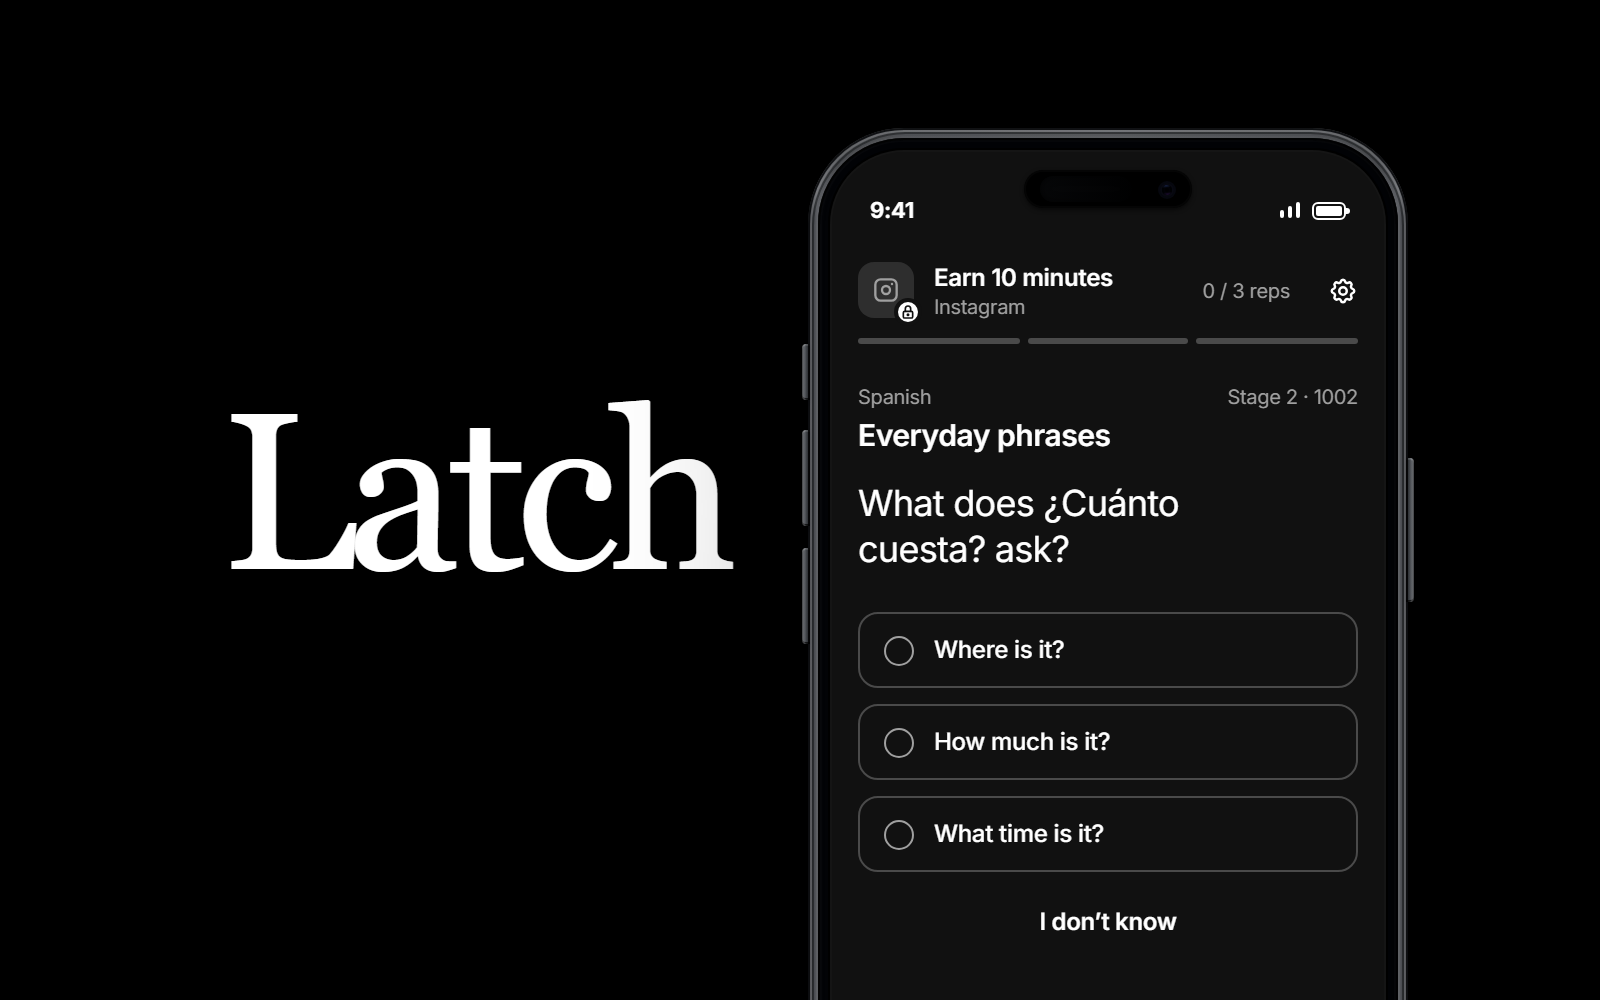
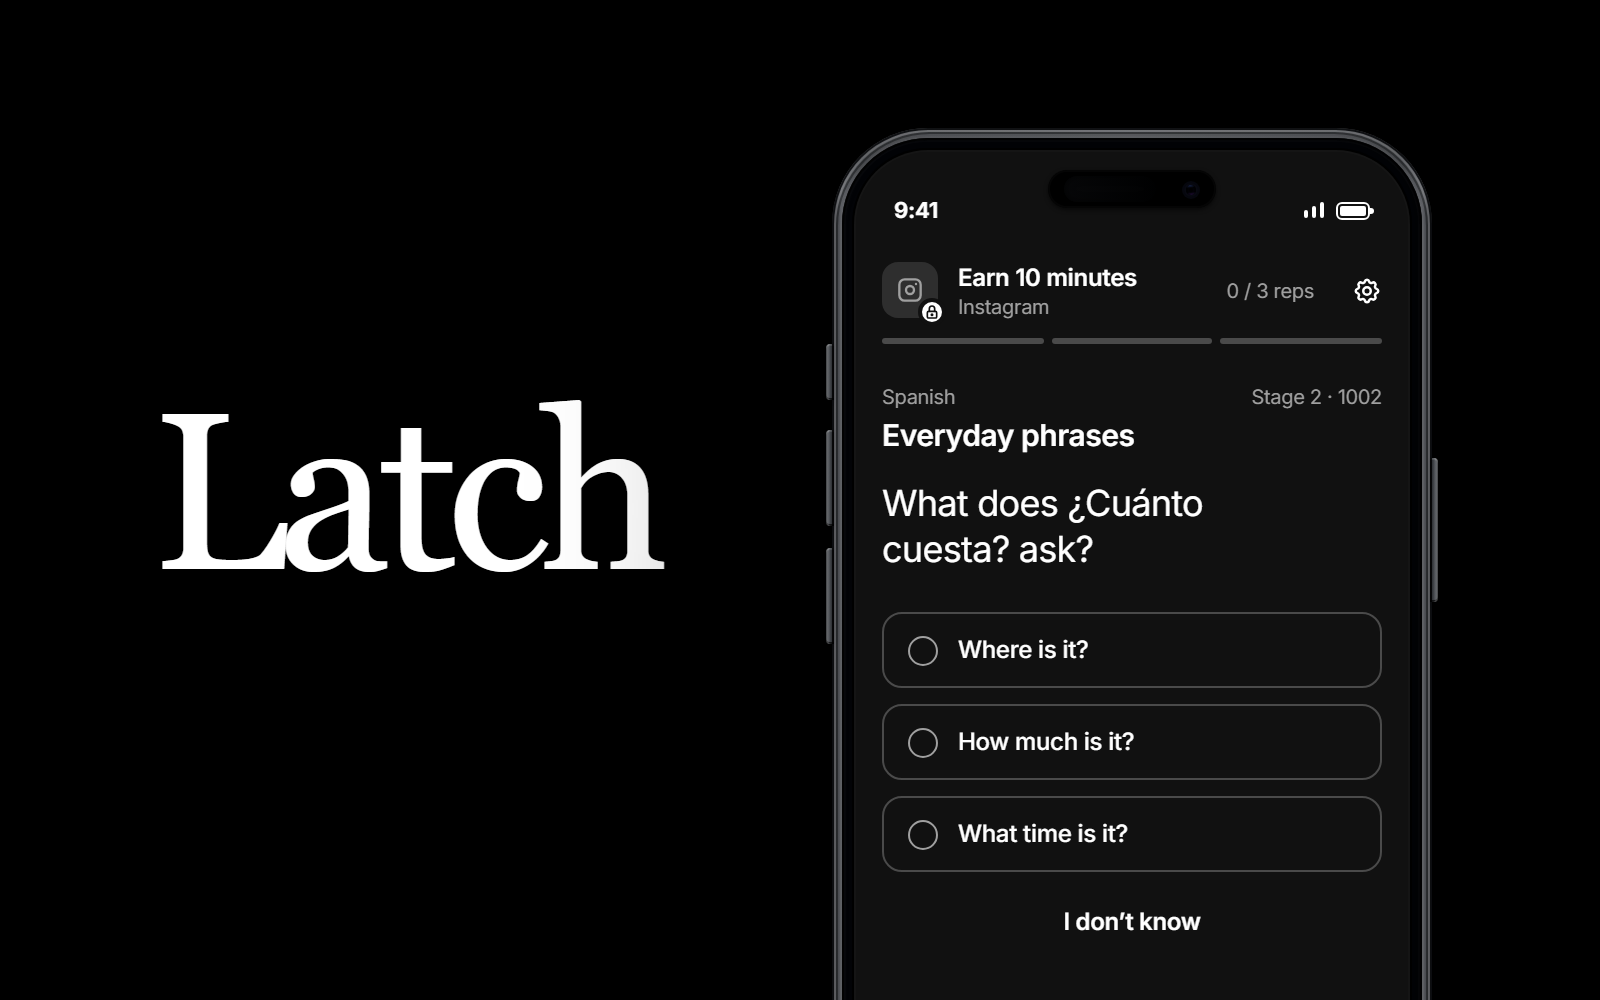
fix(portfolio): even out spacing in Latch cover image

diff --git a/portfolio.config.js b/portfolio.config.js
@@ -33,7 +33,7 @@ window.PORTFOLIO_CONFIG = {
       position: "center",
     },
     latch: {
-      src: "assets/latch.png",
+      src: "assets/latch.png?v=20261118-1",
       alt: "Latch unlock screen asking a Spanish question before Instagram opens",
       fit: "contain",
       // The phone is cropped at the image's bottom edge, so keep that edge on the frame's.

diff --git a/index.html b/index.html
@@ -324,7 +324,7 @@
               <img
                 class="shot"
                 data-project-image="latch"
-                src="assets/latch.png"
+                src="assets/latch.png?v=20261118-1"
                 alt="Latch unlock screen asking a Spanish question before Instagram opens"
                 width="1600"
                 height="1000"
